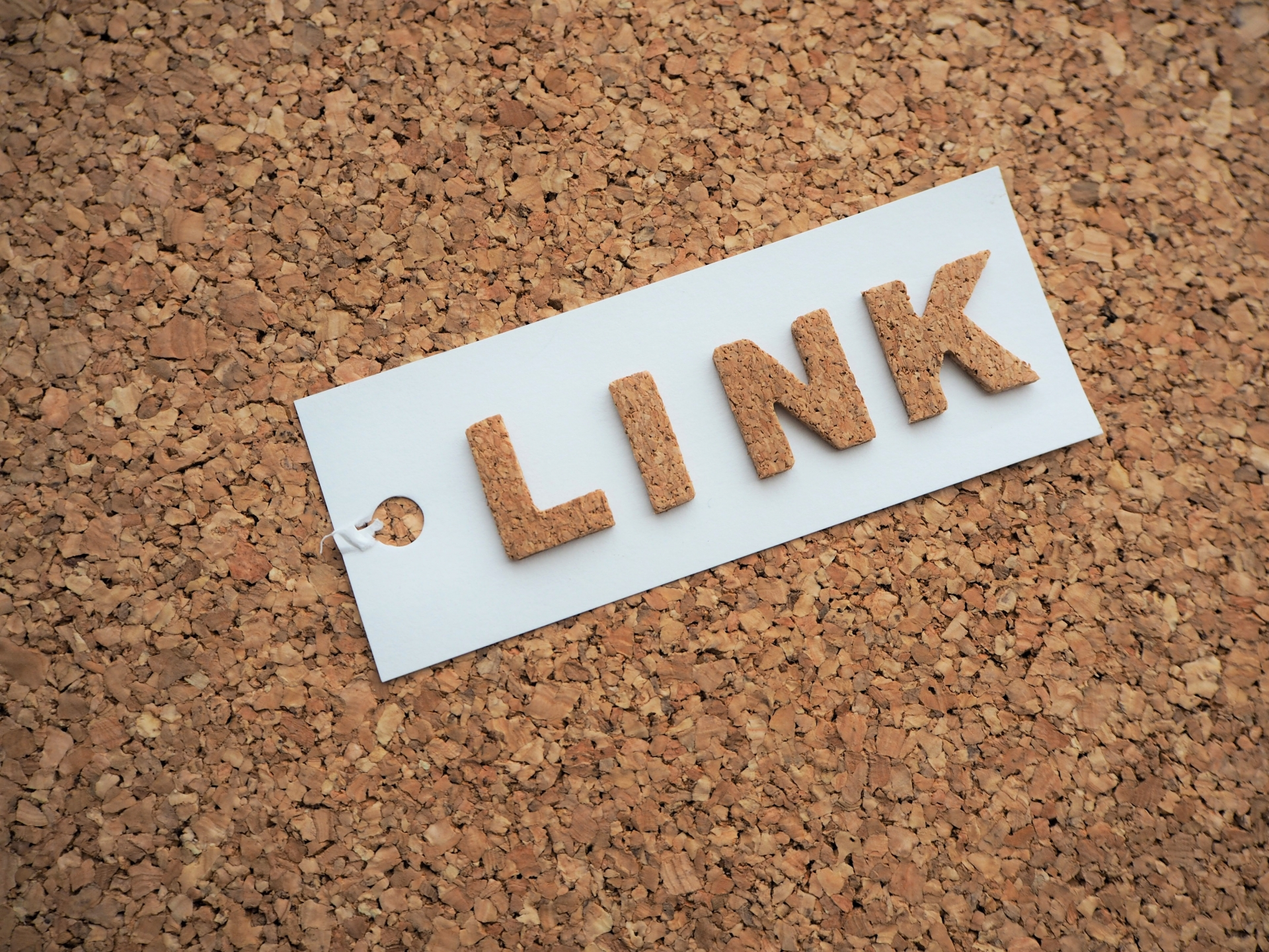
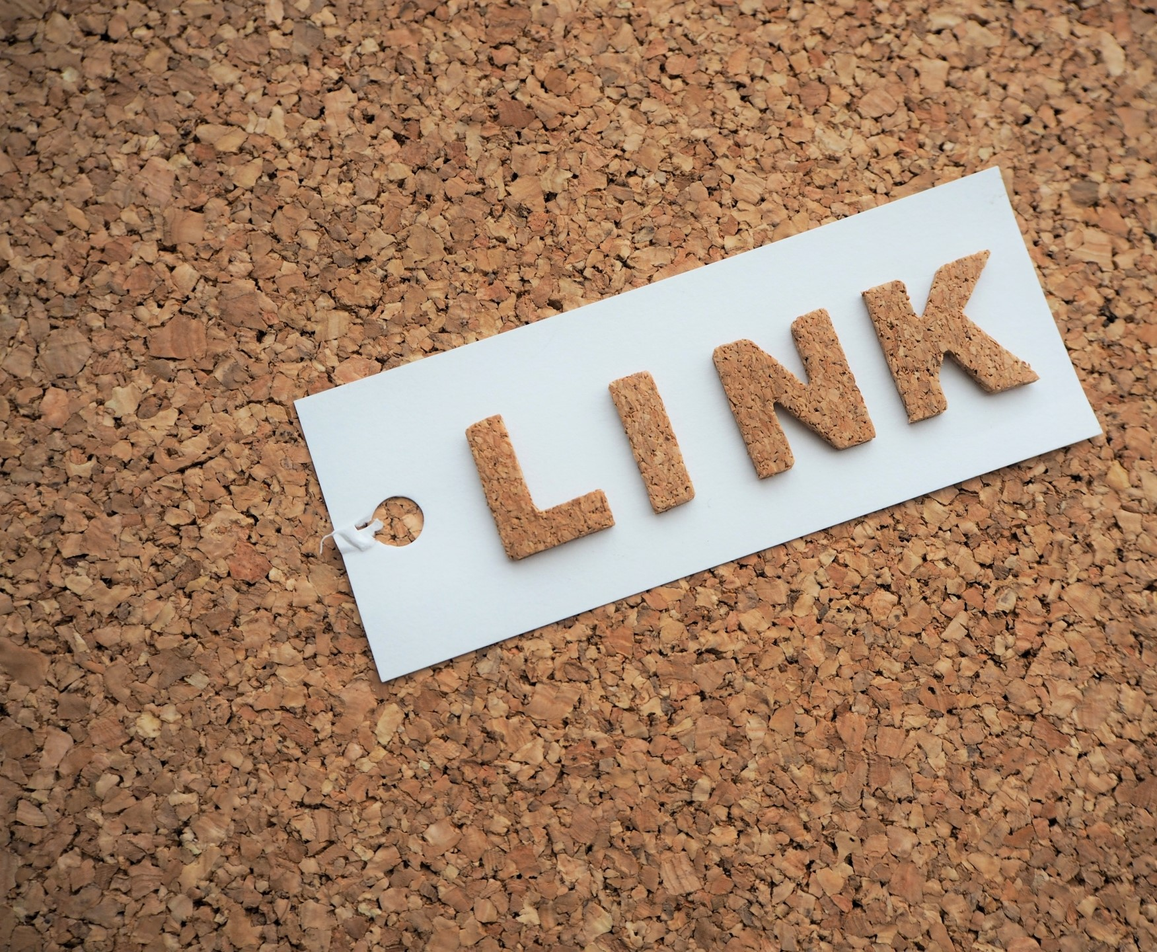
home画面

diff --git a/pages/home.vue b/pages/home.vue
@@ -43,7 +43,7 @@
 .home {
   background: url("../static/images/1990310_m.jpg");
   background-size: cover;
-  background-position: center top 39%;
+  background-position: center top 38%;
   width: 100%;
   height: 100%;
 }
